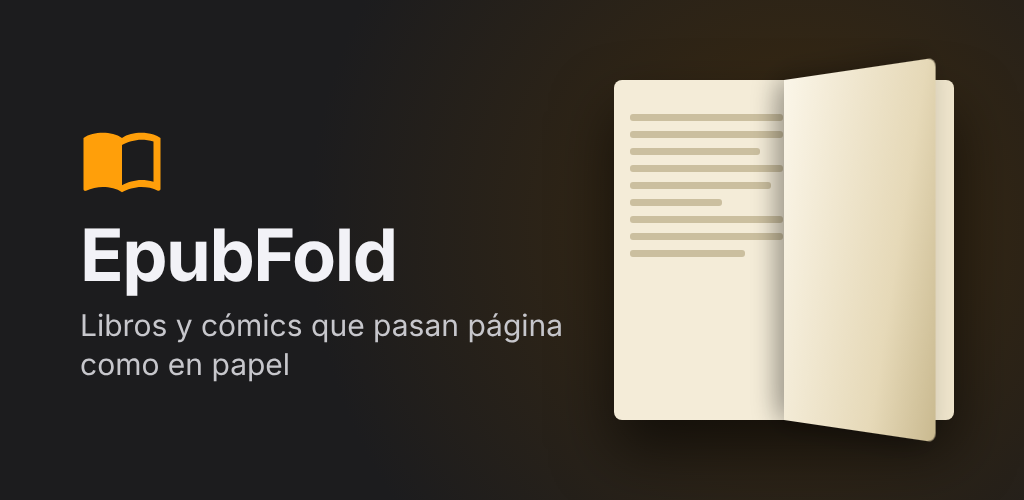
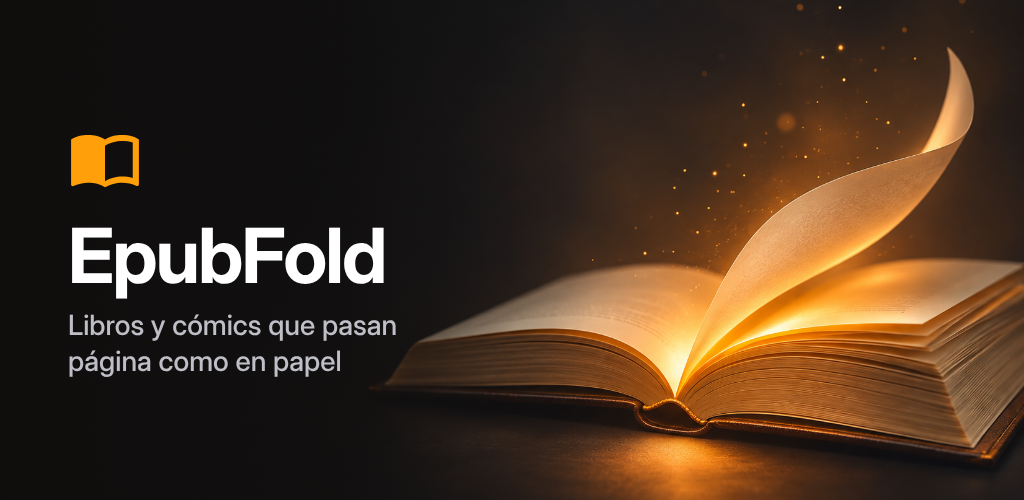
Ficha de Play: gráfico de funciones, capturas montadas y scripts para generarlas
Claude-Session: https://claude.ai/code/session_01SQG9GJ1w4EiN8xEQsUU2nv

diff --git a/docs/play/tools/compose.js b/docs/play/tools/compose.js
@@ -1,0 +1,86 @@
+// Monta las láminas de Play Store: teléfono 1080x1920, tablet 2560x1440 y gráfico 1024x500.
+const { chromium } = require('playwright');
+const fs = require('fs');
+const path = require('path');
+
+const dir = __dirname;
+const img = (f) => 'file://' + path.join(dir, 'img', f);
+const out = process.argv[2];
+const P = 'M21,5c-1.11,-0.35 -2.33,-0.5 -3.5,-0.5 -1.95,0 -4.05,0.4 -5.5,1.5 -1.45,-1.1 -3.55,-1.5 -5.5,-1.5S2.45,4.9 1,6v14.65c0,0.25 0.25,0.5 0.5,0.5 0.1,0 0.15,-0.05 0.25,-0.05C3.1,20.45 5.05,20 6.5,20c1.95,0 4.05,0.4 5.5,1.5 1.35,-0.85 3.8,-1.5 5.5,-1.5 1.65,0 3.35,0.3 4.75,1.05 0.1,0.05 0.15,0.05 0.25,0.05 0.25,0 0.5,-0.25 0.5,-0.5V6c-0.6,-0.45 -1.25,-0.75 -2,-1zM21,18.5c-1.1,-0.35 -2.3,-0.5 -3.5,-0.5 -1.7,0 -4.15,0.65 -5.5,1.5V8c1.35,-0.85 3.8,-1.5 5.5,-1.5 1.2,0 2.4,0.15 3.5,0.5v11.5z';
+
+const base = `*{margin:0;padding:0;box-sizing:border-box} body{font-family:'Inter Display','Inter',sans-serif;-webkit-font-smoothing:antialiased}`;
+
+function phone({ shot, bg, dark, title, sub }) {
+  const fg = dark ? '#ffffff' : '#1c1c1e', sfg = dark ? 'rgba(235,235,245,.72)' : 'rgba(60,60,67,.78)';
+  const h = 1390, w = Math.round(h * 1080 / 2520);
+  return `<style>${base}
+  .c{width:1080px;height:1920px;position:relative;overflow:hidden;background:url('${img(bg)}') center/cover}
+  .t{position:absolute;top:118px;left:70px;right:70px;text-align:center;color:${fg};font-size:78px;font-weight:700;letter-spacing:-1.6px;line-height:1.06}
+  .s{position:absolute;top:${118 + 175}px;left:90px;right:90px;text-align:center;color:${sfg};font-size:36px;font-weight:500;line-height:1.3}
+  .acc{color:#FF9F0A}
+  .d{position:absolute;left:${(1080 - w) / 2 - 14}px;top:452px;padding:14px;background:#0c0c0d;border-radius:72px;
+     box-shadow:0 0 0 2px #2a2a2c,0 50px 90px rgba(0,0,0,${dark ? .65 : .35}),0 12px 30px rgba(0,0,0,.3)}
+  .d img{display:block;width:${w}px;height:${h}px;border-radius:58px;object-fit:cover}
+  </style><div class="c"><div class="t">${title}</div><div class="s">${sub}</div>
+  <div class="d"><img src="${img(shot)}"></div></div>`;
+}
+
+function tablet({ shot, title, sub }) {
+  const h = 1180, w = Math.round(h * 2256 / 2504);
+  return `<style>${base}
+  .c{width:2560px;height:1440px;position:relative;overflow:hidden;background:url('${img('bg_wide.png')}') center/cover}
+  .txt{position:absolute;left:170px;top:0;bottom:0;width:980px;display:flex;flex-direction:column;justify-content:center}
+  .logo{display:flex;align-items:center;gap:20px;color:#FF9F0A;font-size:40px;font-weight:600;margin-bottom:44px}
+  .t{color:#fff;font-size:118px;font-weight:700;letter-spacing:-2.6px;line-height:1.02}
+  .s{color:rgba(235,235,245,.72);font-size:46px;font-weight:500;line-height:1.3;margin-top:36px}
+  .d{position:absolute;right:190px;top:${(1440 - h) / 2 - 18}px;padding:18px;background:#0c0c0d;border-radius:64px;
+     box-shadow:0 0 0 2px #2a2a2c,0 60px 120px rgba(0,0,0,.7)}
+  .d img{display:block;width:${w}px;height:${h}px;border-radius:48px;object-fit:cover}
+  .hinge{position:absolute;top:18px;bottom:18px;left:50%;width:3px;transform:translateX(-50%);
+     background:linear-gradient(to right,rgba(0,0,0,.10),rgba(255,255,255,.06),rgba(0,0,0,.10))}
+  </style><div class="c"><div class="txt">
+  <div class="logo"><svg width="56" height="56" viewBox="0 0 24 24"><path fill="#FF9F0A" d="${P}"/></svg>EpubFold</div>
+  <div class="t">${title}</div><div class="s">${sub}</div></div>
+  <div class="d"><img src="${img(shot)}"><div class="hinge"></div></div></div>`;
+}
+
+function feature() {
+  return `<style>${base}
+  .c{width:1024px;height:500px;position:relative;overflow:hidden;background:#141210}
+  .bg{position:absolute;left:-40px;top:-6px;width:1100px;height:550px;background:url('${img('book.png')}') center/cover}
+  .fade{position:absolute;inset:0;background:linear-gradient(90deg,rgba(15,13,12,.92) 0%,rgba(15,13,12,.75) 34%,rgba(15,13,12,0) 58%)}
+  .txt{position:absolute;left:68px;top:0;bottom:0;display:flex;flex-direction:column;justify-content:center;color:#fff}
+  .n{font-size:76px;font-weight:700;letter-spacing:-2px;margin-top:14px}
+  .s{font-size:28px;font-weight:500;color:rgba(235,235,245,.8);margin-top:6px;line-height:1.3}
+  </style><div class="c"><div class="bg"></div><div class="fade"></div><div class="txt">
+  <svg width="74" height="74" viewBox="0 0 24 24"><path fill="#FF9F0A" d="${P}"/></svg>
+  <div class="n">EpubFold</div><div class="s">Libros y cómics que pasan<br>página como en papel</div></div></div>`;
+}
+
+const jobs = [
+  ['telefono-1.png', 1080, 1920, phone({ shot: 'p_curl.png', bg: 'bg_light.png', dark: false, title: 'Pasa página<br>como en <span class="acc">papel</span>', sub: 'Una animación realista que sigue tu dedo' })],
+  ['telefono-2.png', 1080, 1920, phone({ shot: 'p_highlight.png', bg: 'bg_dark.png', dark: true, title: 'Subraya, traduce<br>y <span class="acc">escucha</span>', sub: 'Cinco colores, notas y lectura en voz alta' })],
+  ['telefono-3.png', 1080, 1920, phone({ shot: 'p_stats.png', bg: 'bg_light.png', dark: false, title: 'Crea el hábito<br>de <span class="acc">leer</span>', sub: 'Metas diarias, rachas y tu reto del año' })],
+  ['telefono-4.png', 1080, 1920, phone({ shot: 'p_read.png', bg: 'bg_dark.png', dark: true, title: 'Lectura cómoda,<br><span class="acc">sin distracciones</span>', sub: 'Tipografía cuidada y temas para cada momento' })],
+  ['tablet-1.png', 2560, 1440, tablet({ shot: 't_curl.png', title: 'Un libro abierto<br>en tus manos', sub: 'Doble página en tu plegable, con el giro de un libro de verdad' })],
+  ['tablet-2.png', 2560, 1440, tablet({ shot: 't_notes.png', title: 'Diseñada para<br>plegables', sub: 'Índice, notas, cuaderno y traducción en un panel lateral' })],
+  ['tablet-3.png', 2560, 1440, tablet({ shot: 't_themes.png', title: 'Nueve temas<br>de lectura', sub: 'Del papel cálido al negro OLED, con su propio brillo' })],
+  ['tablet-4.png', 2560, 1440, tablet({ shot: 't_gutenberg.png', title: 'Miles de clásicos<br>gratis', sub: 'Descarga libros de Project Gutenberg y otros catálogos' })],
+  ['grafico-funciones-1024x500.png', 1024, 500, feature()],
+];
+
+(async () => {
+  fs.mkdirSync(out, { recursive: true });
+  const b = await chromium.launch();
+  for (const [name, w, h, html] of jobs) {
+    const f = path.join(dir, '_' + name + '.html');
+    fs.writeFileSync(f, `<!doctype html><meta charset="utf-8"><body>${html}</body>`);
+    const p = await b.newPage({ viewport: { width: w, height: h }, deviceScaleFactor: 1 });
+    await p.goto('file://' + f);
+    await p.waitForLoadState('networkidle');
+    await p.screenshot({ path: path.join(out, name) });
+    await p.close();
+    console.log(name);
+  }
+  await b.close();
+})();

diff --git a/docs/play/tools/prep.py b/docs/play/tools/prep.py
@@ -1,0 +1,24 @@
+"""Limpia las capturas: quita la barra de estado y tapa títulos con derechos de autor."""
+import sys
+from PIL import Image, ImageDraw
+
+src, out = sys.argv[1], sys.argv[2]
+
+# nombre -> (archivo, [(rect, color)])
+jobs = {
+    'p_curl':      ('141400', []),
+    'p_read':      ('141415', []),
+    'p_highlight': ('141422', []),
+    'p_stats':     ('141514', [((0, 0, 1080, 105), (0, 0, 0))]),
+    't_curl':      ('141532', []),
+    't_notes':     ('141622', [((40, 140, 1100, 240), (248, 248, 248))]),
+    't_gutenberg': ('141718', [((0, 0, 2256, 112), (0, 0, 0))]),
+    't_themes':    ('141733', []),
+}
+for name, (stamp, patches) in jobs.items():
+    im = Image.open(f'{src}/Screenshot_20261113_{stamp}_EpubFold.jpg').convert('RGB')
+    d = ImageDraw.Draw(im)
+    for rect, color in patches:
+        d.rectangle(rect, fill=color)
+    im.save(f'{out}/{name}.png')
+    print(name, im.size)
